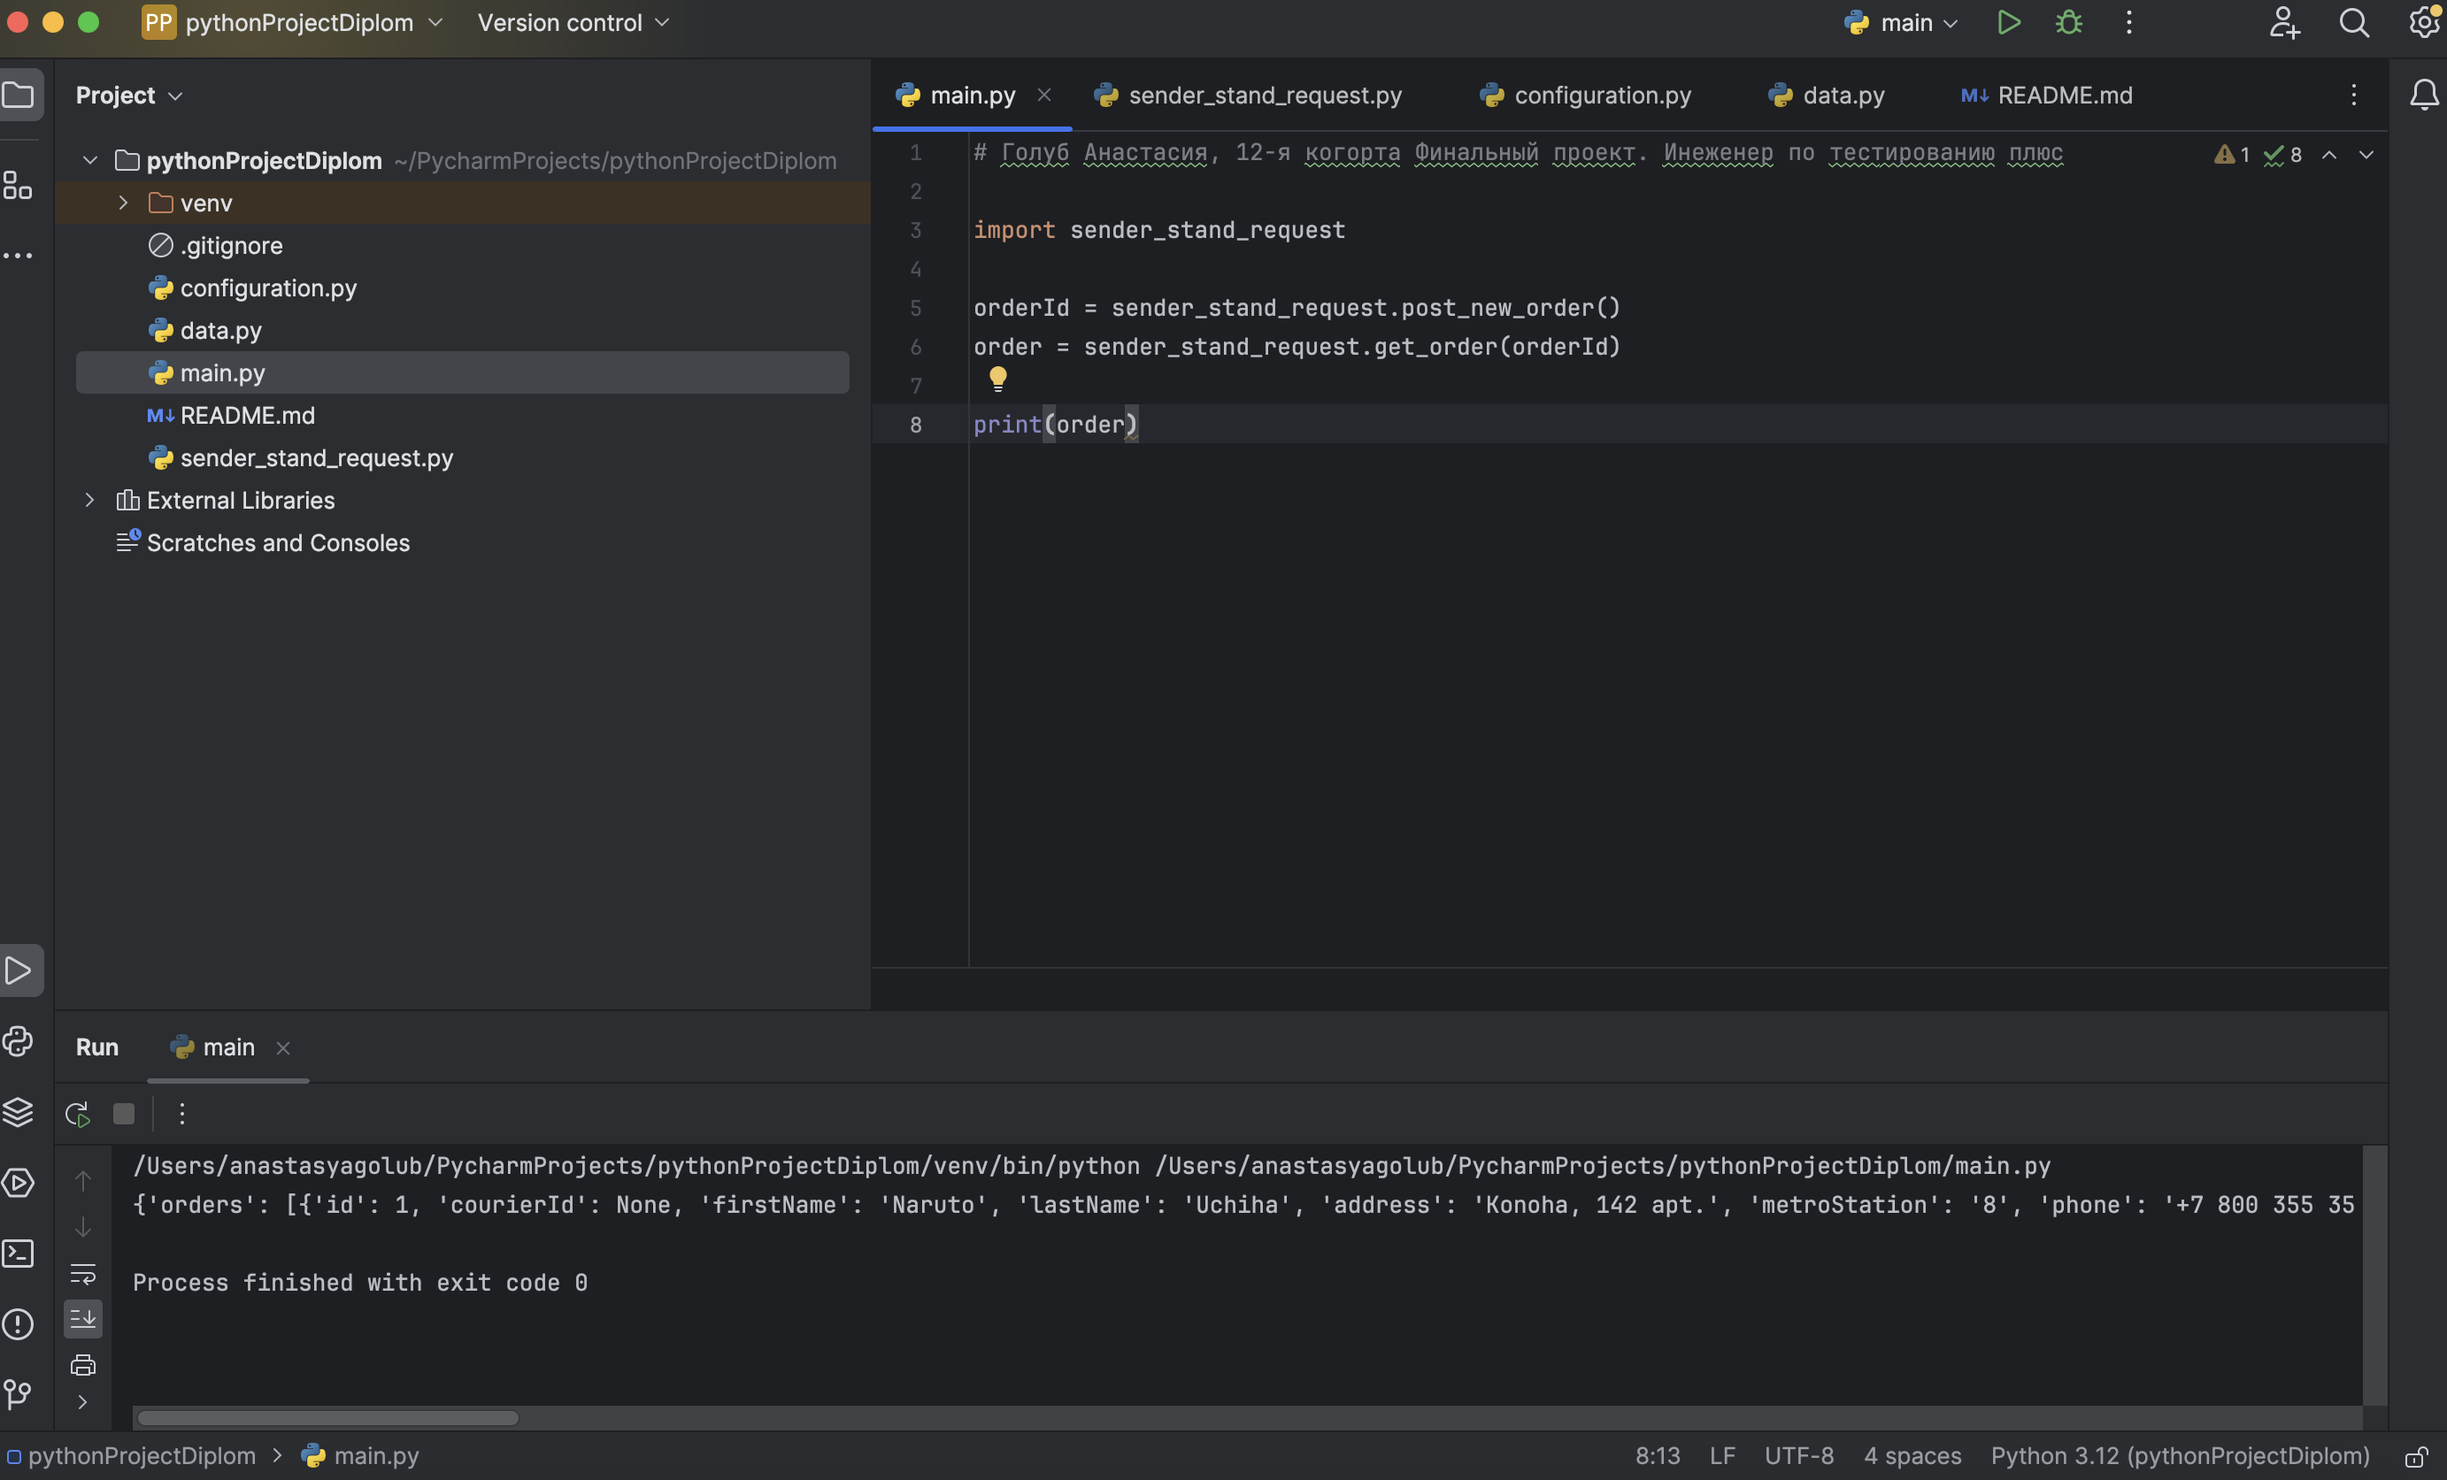
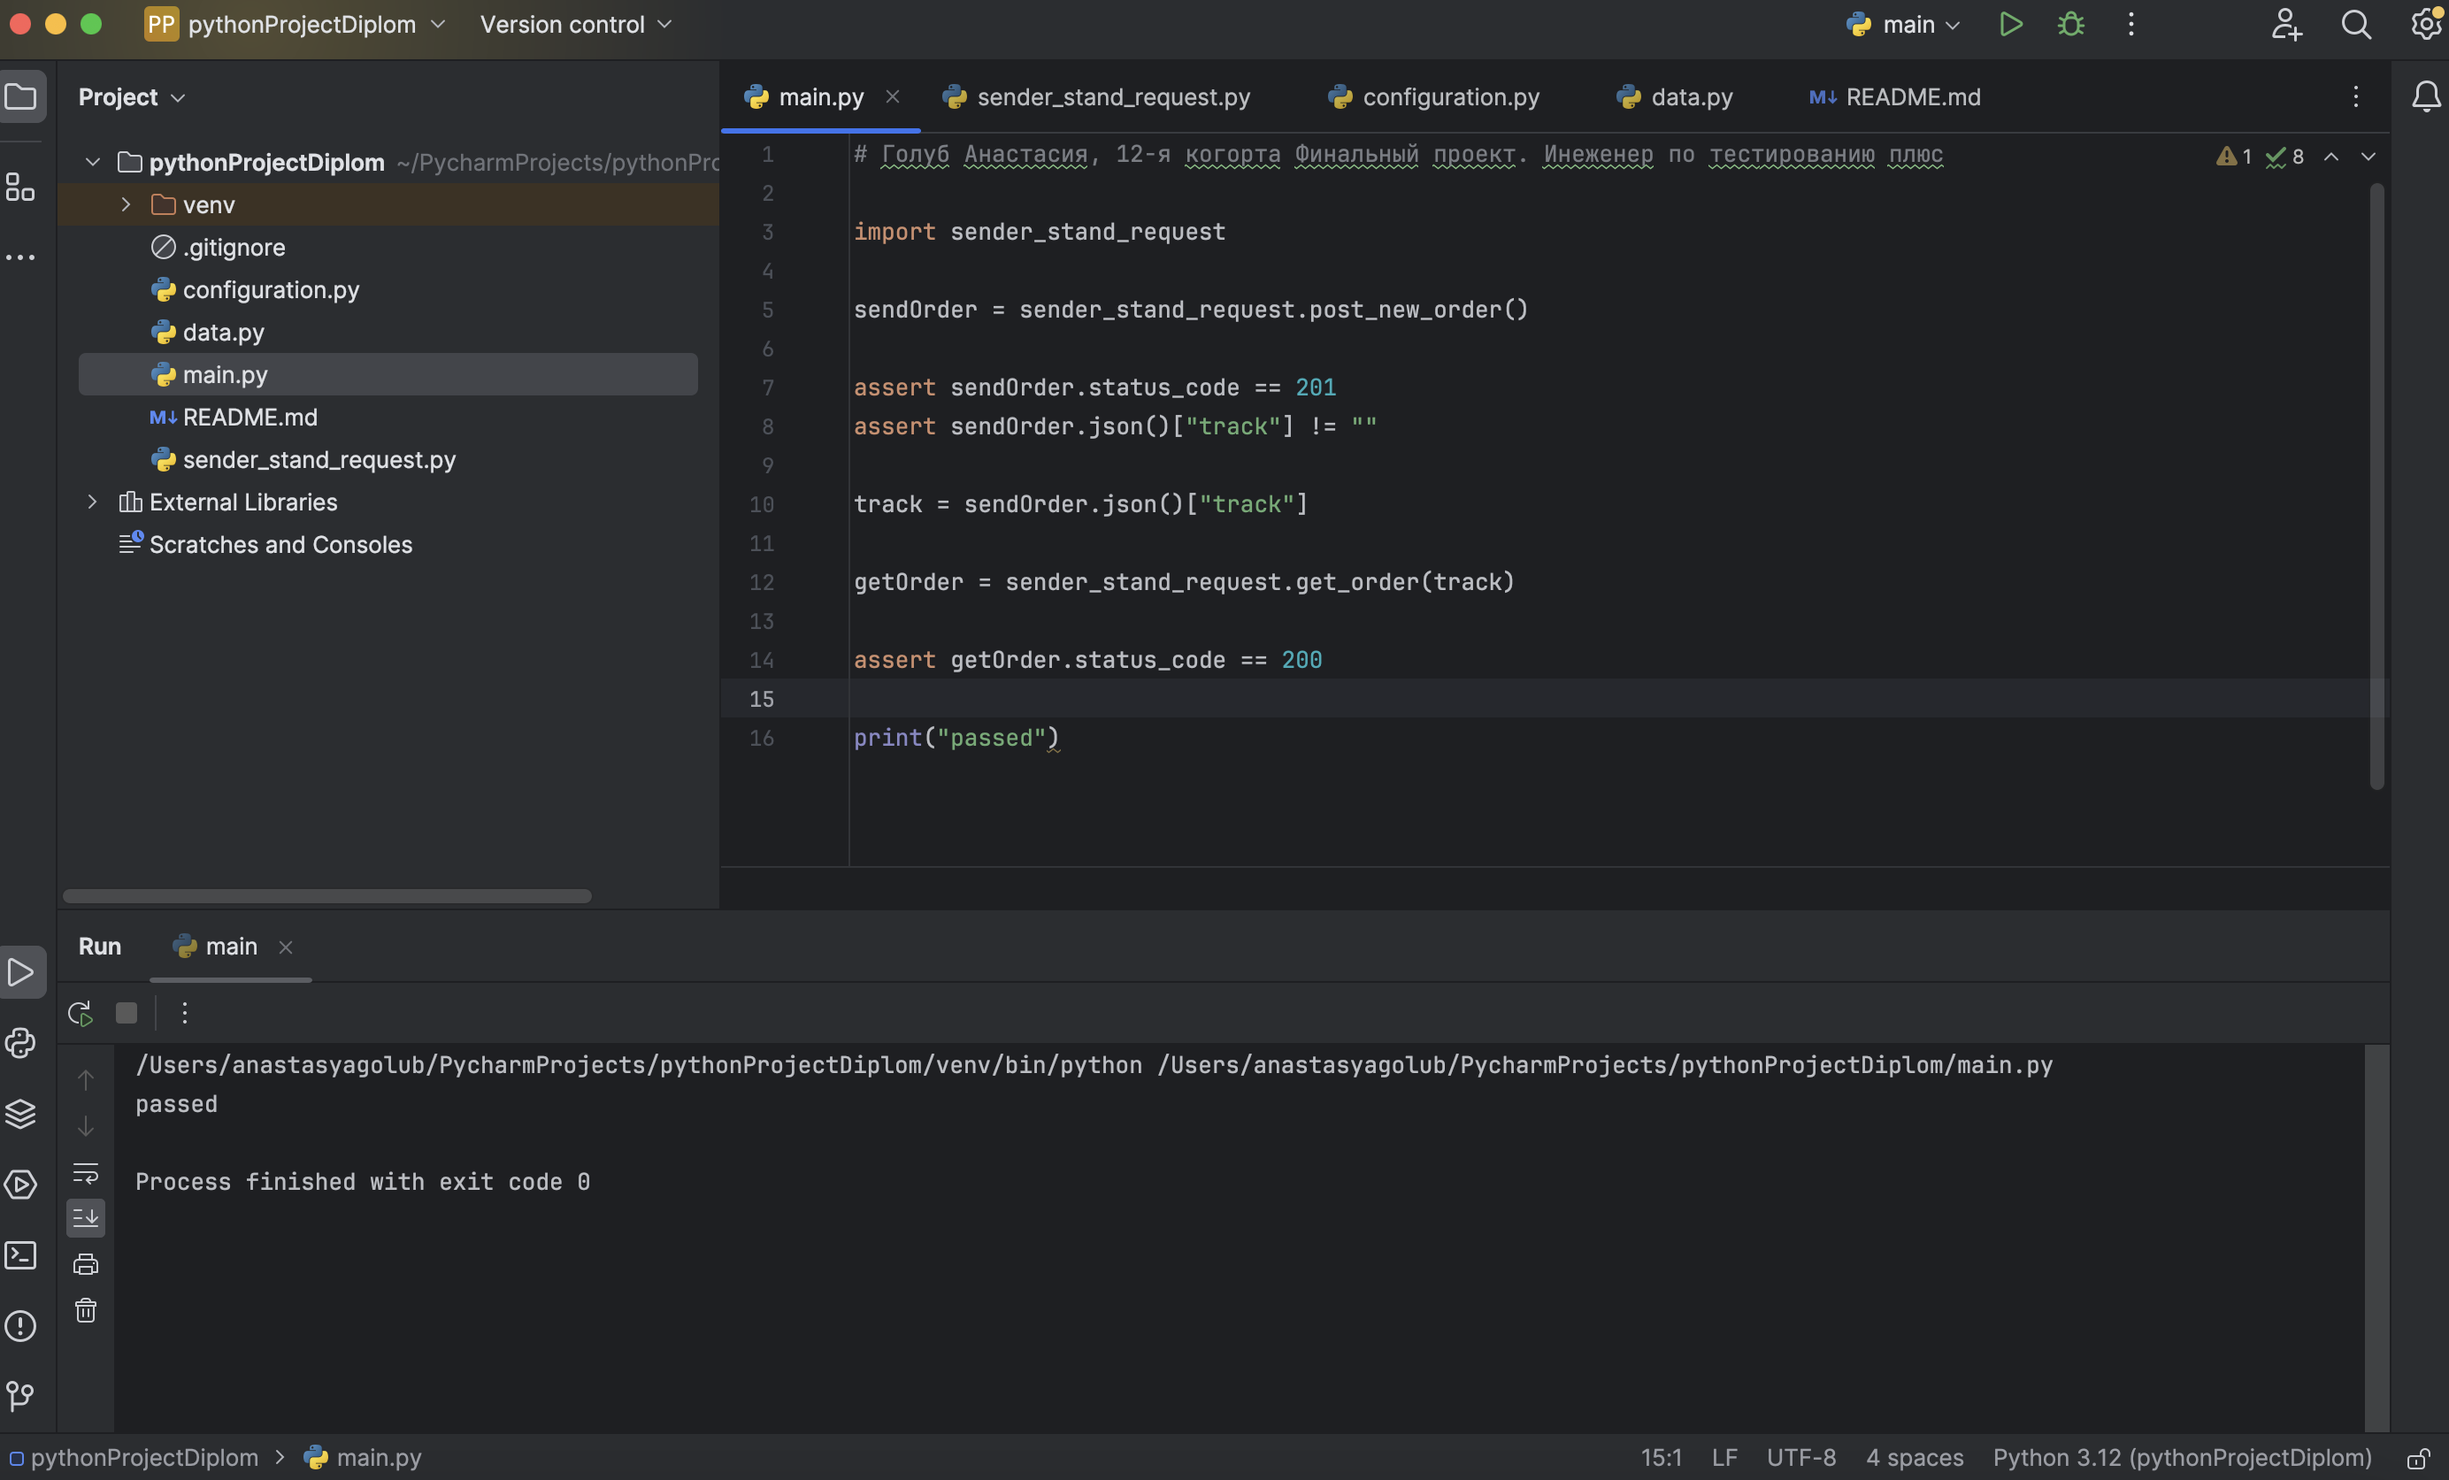
Fixed

diff --git a/sender_stand_request.py b/sender_stand_request.py
@@ -6,15 +6,9 @@ def post_new_order():
     response = requests.post(configuration.URL_SERVICE + configuration.NEW_ORDER_PATH,
                          json=data.order_body.copy(),
                          headers=data.headers.copy())
+    return response
 
-    assert response.status_code == 201
-    assert response.json()["track"] != ""
+def get_order(track):
+    response = requests.get(configuration.URL_SERVICE + configuration.NEW_ORDER_PATH + "?t=" + str(track))
 
-    return response.json()["track"]
-
-def get_order(orderId):
-    response = requests.get(configuration.URL_SERVICE + configuration.NEW_ORDER_PATH + "?t=" + str(orderId))
-
-    assert response.status_code == 200
-
-    return response.json()
+    return response

diff --git a/main.py b/main.py
@@ -2,7 +2,15 @@
 
 import sender_stand_request
 
-orderId = sender_stand_request.post_new_order()
-order = sender_stand_request.get_order(orderId)
+sendOrder = sender_stand_request.post_new_order()
 
-print(order)
+assert sendOrder.status_code == 201
+assert sendOrder.json()["track"] != ""
+
+track = sendOrder.json()["track"]
+
+getOrder = sender_stand_request.get_order(track)
+
+assert getOrder.status_code == 200
+
+print("passed")

diff --git a/configuration.py b/configuration.py
@@ -1,3 +1,3 @@
-URL_SERVICE = "https://f79ed4fc-ef95-4cb1-99fb-38c1d097dfea.serverhub.praktikum-services.ru"
+URL_SERVICE = "https://89b1b618-a561-46ec-ad64-3d63b056ab94.serverhub.praktikum-services.ru"
 NEW_ORDER_PATH = "/api/v1/orders"
 GET_ORDER_PATH = "/v1/orders/track"
